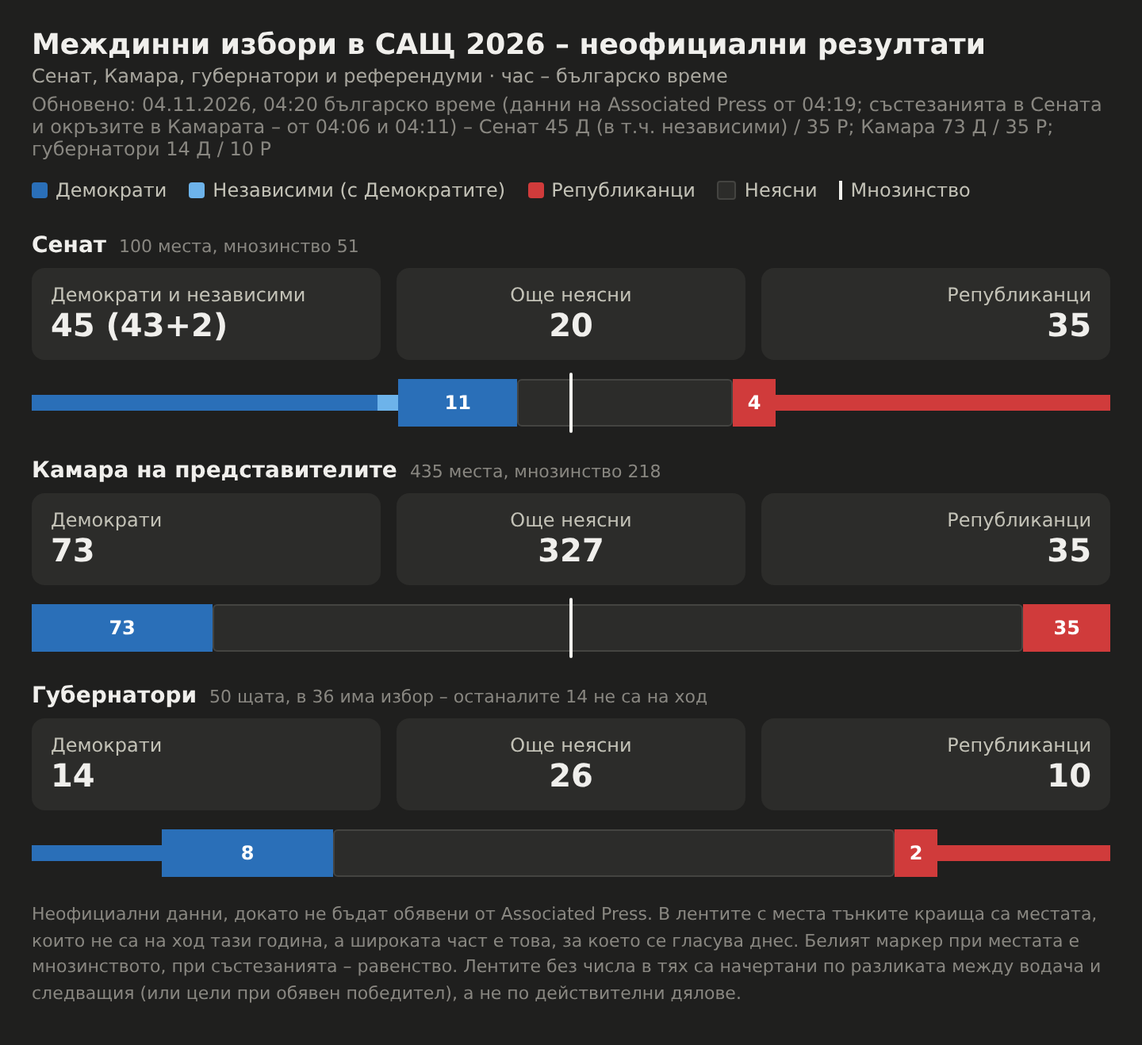
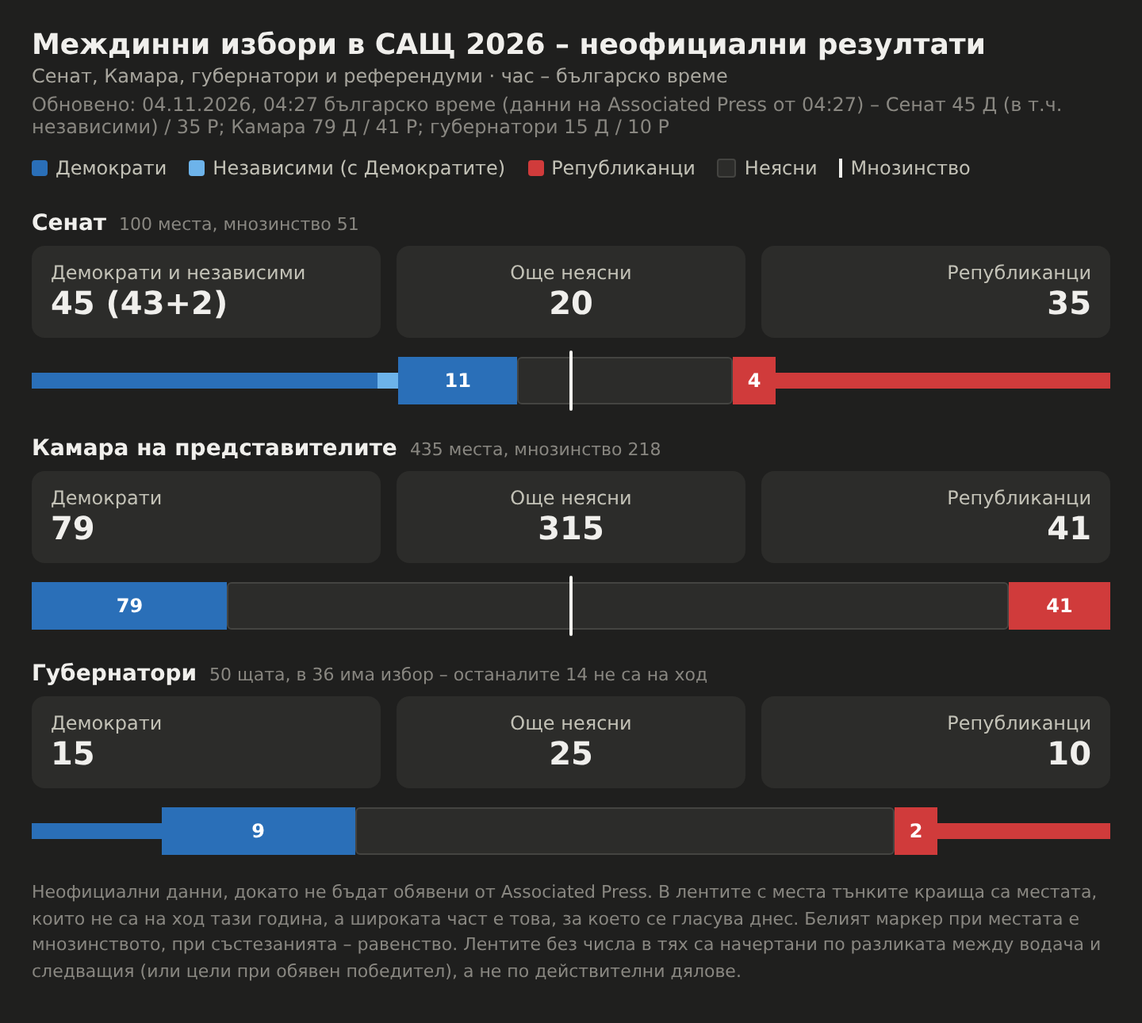
Обновяване 04:27 българско време: Камара 79–41, губернатори 15–10
Claude-Session: https://claude.ai/code/session_013Bd4dyDeBGD9vdxVJ9tN9V

diff --git a/us-midterms-2026.11.03.html b/us-midterms-2026.11.03.html
@@ -53,13 +53,13 @@ h1{font-size:18px;font-weight:600;margin:0 0 2px}
 .empty{font-size:13px;color:var(--text-muted);padding:10px 0}
 .foot{font-size:11px;color:var(--text-muted);margin-top:16px;line-height:1.5}
 </style></head><body><div class="wrap">
-<h1>Междинни избори в САЩ 2026 – неофициални резултати</h1><div class="sub">Сенат, Камара, губернатори и референдуми · час – българско време</div><div class="upd">Обновено: 04.11.2026, 04:20 българско време (данни на Associated Press от 04:19; състезанията в Сената и окръзите в Камарата – от 04:06 и 04:11) – Сенат 45 Д (в т.ч. независими) / 35 Р; Камара 73 Д / 35 Р; губернатори 14 Д / 10 Р</div>
+<h1>Междинни избори в САЩ 2026 – неофициални резултати</h1><div class="sub">Сенат, Камара, губернатори и референдуми · час – българско време</div><div class="upd">Обновено: 04.11.2026, 04:27 българско време (данни на Associated Press от 04:27) – Сенат 45 Д (в т.ч. независими) / 35 Р; Камара 79 Д / 41 Р; губернатори 15 Д / 10 Р</div>
 <div class="tabs" id="tabs"></div>
 <div id="view"></div>
 <div class="foot">Неофициални данни, докато не бъдат обявени от Associated Press. В лентите с места тънките краища са местата, които не са на ход тази година, а широката част е това, за което се гласува днес. Белият маркер при местата е мнозинството, при състезанията – равенство. Лентите без числа в тях са начертани по разликата между водача и следващия (или цели при обявен победител), а не по действителни дялове. Щракни на ред, за да видиш как се е променял или кои са окръзите на щата.</div>
 </div>
 <script>
-var DATA={"title": "Междинни избори в САЩ 2026 – неофициални резултати", "sub": "Сенат, Камара, губернатори и референдуми · час – българско време", "updated": "04.11.2026, 04:20 българско време (данни на Associated Press от 04:19; състезанията в Сената и окръзите в Камарата – от 04:06 и 04:11) – Сенат 45 Д (в т.ч. независими) / 35 Р; Камара 73 Д / 35 Р; губернатори 14 Д / 10 Р", "times": ["01:30", "02:00", "02:15", "02:30", "03:30", "03:45", "04:05", "04:15", "04:20"], "chambers": {"sen": {"tot": 100, "mj": 51, "d": [32, 32, 33, 33, 41, 41, 43, 43, 43], "i": [2, 2, 2, 2, 2, 2, 2, 2, 2], "r": [31, 31, 31, 31, 31, 32, 34, 34, 35], "base": {"d": 32, "i": 2, "r": 31}}, "hou": {"tot": 435, "mj": 218, "d": [0, 0, 3, 6, 36, 44, 60, 71, 73], "i": [0, 0, 0, 0, 0, 0, 0, 0, 0], "r": [0, 0, 1, 2, 16, 21, 29, 31, 35], "base": {"d": 0, "i": 0, "r": 0}}, "gov": {"tot": 50, "d": [6, 6, 6, 6, 11, 11, 13, 13, 14], "i": [], "r": [8, 8, 8, 8, 8, 8, 9, 10, 10], "base": {"d": 6, "i": 0, "r": 8}}}, "senate": [["Върджиния", 100, 0, null, "<b>Обявен:</b> Демократи (Уорнър)", 1, [], 1], ["Северна Каролина", 100, 0, null, "<b>Обявен:</b> Демократи (Купър; място, което сега е на Републиканците)", 1, [], 1], ["Ню Хемпшър", 100, 0, null, "<b>Обявен:</b> Демократи (Папас)", 1, [], 1], ["Флорида", 0, 100, null, "<b>Обявена:</b> Републиканци (Муди, специален избор)", 1, [], 1], ["Кентъки", 0, 100, null, "<b>Обявен:</b> Републиканци (Бар)", 1, [], 1], ["Колорадо", 100, 0, null, "<b>Обявен:</b> Демократи (Хикенлупър)", 1, [], 1], ["Ню Мексико", 100, 0, null, "<b>Обявен:</b> Демократи (Лухан)", 1, [], 1], ["Уайоминг", 0, 100, null, "<b>Обявена:</b> Републиканци (Хагеман)", 1, [], 1], ["Грузия", null, null, 71, "Води: Демократи (Ософ) – Associated Press не дава разлика", 0, []], ["Южна Каролина", 54.1, 45.9, 71, "Води: Демократи (+8,2 пункта)", 0, [], 1], ["Охайо", 54.35, 45.65, 47, "Води: Демократи (Браун, +8,7 пункта)", 0, [], 1], ["Тексас", 59.95, 40.05, 40, "Води: Демократи (Таларико, +19,9 пункта)", 0, [], 1], ["Канзас", 63.25, 36.75, 38, "Води: Демократи (+26,5 пункта)", 0, [], 1], ["Мичиган", 55.75, 44.25, 14, "Води: Демократи (+11,5 пункта)", 0, [], 1], ["Мейн", 55.5, 44.5, 4, "Води: Демократи (Джаксън, +11) – броят е в началото", 0, [], 1], ["Айова", 73.05, 26.95, 5, "Води: Демократи (Турек, +46,1) – броят е в началото", 0, [], 1]], "gov": [["Роуд Айлънд", 100, 0, null, "<b>Обявена:</b> Демократи (Фулкс)", 1, [], 1], ["Колорадо", 100, 0, null, "<b>Обявен:</b> Демократи (Уайзър)", 1, [], 1], ["Ню Йорк", 100, 0, null, "<b>Обявена:</b> Демократи (Хокъл)", 1, [], 1], ["Уайоминг", 0, 100, null, "<b>Обявен:</b> Републиканци (Барлоу)", 1, [], 1], ["Флорида", 0, 100, null, "<b>Обявен:</b> Републиканци (Доналдс)", 1, [], 1], ["Кънектикът", 100, 0, null, "<b>Обявен:</b> Демократи (Ламонт)", 1, [], 1]], "housecontested": [["Вирджиния 1", 49.5, 50.2, 80, "Води: Републиканци", 0, []], ["Флорида 7", 49.1, 49.8, 98, "Води: Републиканци", 0, []], ["Флорида 9", 50.2, 49.8, 99, "Води: Демократи", 0, []], ["Флорида 13", 48.6, 49.5, 99, "Води: Републиканци", 0, []], ["Флорида 27", 49.8, 50.2, 95, "Води: Републиканци", 0, []], ["Вирджиния 5", 49.5, 48.8, 71, "Води: Демократи", 0, []], ["Северна Каролина 9", 51, 49, 89, "Води: Демократи", 0, []], ["Индиана 5", 52, 48, 88, "Води: Демократи", 0, []], ["Флорида 22", 52, 48, 99, "Води: Демократи", 0, []], ["Кентъки 6", 53, 43, 74, "Води: Демократи", 0, []], ["Мичиган 10", 51, 47, 11, "Води: Демократи", 0, []], ["Айова 2", 47.8, 48.7, 1, "Води: Републиканци", 0, []], ["Охайо 7", 59, 41, 43, "Води: Демократи", 0, []], ["Пенсилвания 1", 66, 34, 28, "Води: Демократи", 0, []], ["Тексас 35", 66, 34, 44, "Води: Демократи", 0, []], ["Ню Йорк 17", 57, 43, 2, "Води: Демократи", 0, []], ["Алабама 2", 38, 62, 8, "Води: Републиканци", 0, []], ["Мичиган 4", 27, 71, 1, "Води: Републиканци", 0, []]], "housestates": [], "measures": [["Мисури – Поправка 3 (аборти)", 35.7, 64.3, 20.9, "Води: Против", 0, [], 0, "Предложена поправка в конституцията на Мисури. Тя отменя правото на аборт до жизнеспособността на плода и позволява аборт само при медицинска спешност, аномалия на плода, или при изнасилване или кръвосмешение до 12-ата седмица от бременността. Забранява и лечения и операции за смяна на пола при непълнолетни."], ["Върджиния – Въпрос 1 (репродуктивни права)", 60.5, 39.5, 69.8, "Води: За", 0, [], 0, "Предложена поправка в конституцията на Върджиния. Тя създава репродуктивни права, включително право на аборт, на контрацепция и на грижи за плодовитостта. Абортът може да се регулира през третия триместър, но трябва да бъде разрешен, за да се защити животът или здравето на бременната жена или когато плодът не е жизнеспособен."], ["Върджиния – Въпрос 2 (брак)", 56.2, 43.8, 69.8, "Води: За", 0, [], 0, "Предложена поправка в конституцията на Върджиния. Тя отменя ограничението бракът да е само между мъж и жена и вместо това заявява, че на двама възрастни не може да се отказва брак заради пол, полова идентичност или раса."], ["Върджиния – Въпрос 3 (право на глас)", 54.7, 45.3, 69.6, "Води: За", 0, [], 0, "Предложена поправка в конституцията на Върджиния. Тя създава основно право да се гласува и възстановява отнетите избирателни права на осъдени за тежки престъпления, след като бъдат освободени от затвора."], ["Мисури – Предложение A (нови окръзи за Камарата)", 31.5, 68.5, 20.4, "Води: Против", 0, [], 0, "Референдум, в който гласоподавателите в Мисури решават дали да се приемат новите окръзи за Камарата на представителите на САЩ, приети от законодателите на щата през 2025 г."], ["Мериленд – Въпрос 3 (окръзи за Конгреса)", 34.8, 65.2, 3, "Води: Против", 0, [], 0, "Предложена поправка в конституцията на Мериленд. Тя премахва ограниченията при прекрояването на окръзите за Конгреса. Изискването окръзите да са компактни и да уважават „природните граници“ ще важи само за окръзите на законодателния орган на щата, а не за окръзите за Конгреса."], ["Охайо – Въпрос 3 (документ със снимка)", 63.6, 36.4, 52.7, "Води: За", 0, [], 0, "Предложена поправка в конституцията на Охайо. Тя изисква държавен документ със снимка, за да се гласува лично, с изключение за религиозни убеждения. Който гласува по друг начин, трябва да представи или документ със снимка, или номер на държавен документ за самоличност."], ["Северна Каролина – Поправка SB 921 (документ със снимка)", 57.2, 42.8, 78, "Води: За", 0, [], 0, "Предложена поправка в конституцията на Северна Каролина. Тя изисква документ със снимка, за да се гласува по какъвто и да е начин, а не само когато се гласува лично."], ["Канзас – Поправка 1 (неграждани)", 55.1, 44.9, 39.2, "Води: За", 0, [], 0, "Предложена поправка в конституцията на Канзас. Тя забранява на неграждани да гласуват на избори."], ["Масачузетс – Въпрос 3 (отворени първични избори)", 37.1, 62.9, 4.5, "Води: Против", 0, [], 0, "Мярката премахва отделните първични избори на партиите и въвежда отворени първични избори, в които двамата с най-много гласове преминават към общите избори. Изисква и кандидатите за губернатор да бъдат в двойка с кандидат за заместник-губернатор в първичните избори."], ["Масачузетс – Въпрос 8 (марихуана)", 20.4, 79.6, 4.5, "Води: Против", 0, [], 0, "Мярката отменя законите, които позволяват законна продажба на марихуана за развлекателни цели, но не налага наказателни санкции за притежание на по-малко от две унции. Медицинската марихуана остава законна."], ["Колорадо – Поправка 81 (имиграция)", 26.4, 73.6, 9.1, "Води: Против", 0, [], 0, "Предложена поправка в конституцията на Колорадо. Тя изисква служителите на реда да уведомяват Министерството на вътрешната сигурност на САЩ, когато обвиняват хора в тежки престъпления или, при хора с предишни присъди за тежки престъпления, в което и да е престъпление, ако може да са в САЩ незаконно."], ["Колорадо – Предложение 135 (непълнолетни и смяна на пола)", 31.8, 68.2, 9, "Води: Против", 0, [], 0, "Мярката забранява операции за промяна на половите белези на непълнолетни в отговор на възприеманата полова идентичност или пол на детето. Забранява и държавно финансиране за такива операции."], ["Тенеси – Поправка 2 (данъци върху имоти)", 64.6, 35.4, 27.1, "Води: За", 0, [], 0, "Предложена поправка в конституцията на Тенеси. Тя забранява на щата да налага данъци върху имоти."], ["Северна Дакота – Мярка 2 (безплатни училищни обяди)", 44.6, 55.4, 11.3, "Води: Против", 0, [], 0, "Предложена поправка в конституцията на Северна Дакота. Тя изисква държавните училища да осигуряват безплатна закуска и обяд на всички ученици."]], "foot": "Неофициални данни, докато не бъдат обявени от Associated Press. В лентите с места тънките краища са местата, които не са на ход тази година, а широката част е това, за което се гласува днес. Белият маркер при местата е мнозинството, при състезанията – равенство. Лентите без числа в тях са начертани по разликата между водача и следващия (или цели при обявен победител), а не по действителни дялове. Щракни на ред, за да видиш как се е променял или кои са окръзите на щата."};
+var DATA={"title": "Междинни избори в САЩ 2026 – неофициални резултати", "sub": "Сенат, Камара, губернатори и референдуми · час – българско време", "updated": "04.11.2026, 04:27 българско време (данни на Associated Press от 04:27) – Сенат 45 Д (в т.ч. независими) / 35 Р; Камара 79 Д / 41 Р; губернатори 15 Д / 10 Р", "times": ["01:30", "02:00", "02:15", "02:30", "03:30", "03:45", "04:05", "04:15", "04:20", "04:27"], "chambers": {"sen": {"tot": 100, "mj": 51, "d": [32, 32, 33, 33, 41, 41, 43, 43, 43, 43], "i": [2, 2, 2, 2, 2, 2, 2, 2, 2, 2], "r": [31, 31, 31, 31, 31, 32, 34, 34, 35, 35], "base": {"d": 32, "i": 2, "r": 31}}, "hou": {"tot": 435, "mj": 218, "d": [0, 0, 3, 6, 36, 44, 60, 71, 73, 79], "i": [0, 0, 0, 0, 0, 0, 0, 0, 0, 0], "r": [0, 0, 1, 2, 16, 21, 29, 31, 35, 41], "base": {"d": 0, "i": 0, "r": 0}}, "gov": {"tot": 50, "d": [6, 6, 6, 6, 11, 11, 13, 13, 14, 15], "i": [], "r": [8, 8, 8, 8, 8, 8, 9, 10, 10, 10], "base": {"d": 6, "i": 0, "r": 8}}}, "senate": [["Върджиния", 100, 0, null, "<b>Обявен:</b> Демократи (Уорнър)", 1, [], 1], ["Северна Каролина", 100, 0, null, "<b>Обявен:</b> Демократи (Купър; място, което сега е на Републиканците)", 1, [], 1], ["Ню Хемпшър", 100, 0, null, "<b>Обявен:</b> Демократи (Папас)", 1, [], 1], ["Флорида", 0, 100, null, "<b>Обявена:</b> Републиканци (Муди, специален избор)", 1, [], 1], ["Кентъки", 0, 100, null, "<b>Обявен:</b> Републиканци (Бар)", 1, [], 1], ["Колорадо", 100, 0, null, "<b>Обявен:</b> Демократи (Хикенлупър)", 1, [], 1], ["Ню Мексико", 100, 0, null, "<b>Обявен:</b> Демократи (Лухан)", 1, [], 1], ["Уайоминг", 0, 100, null, "<b>Обявена:</b> Републиканци (Хагеман)", 1, [], 1], ["Грузия", null, null, 75, "Води: Демократи (Ософ) – Associated Press не дава разлика", 0, []], ["Южна Каролина", 52.5, 47.5, 80, "Води: Демократи (+5 пункта)", 0, [], 1], ["Охайо", 52.05, 47.95, 56, "Води: Демократи (Браун, +4,1 пункта)", 0, [], 1], ["Тексас", 60.45, 39.55, 52, "Води: Демократи (Таларико, +20,9 пункта)", 0, [], 1], ["Канзас", 61.25, 38.75, 42, "Води: Демократи (+22,5 пункта)", 0, [], 1], ["Мичиган", 55.4, 44.6, 16, "Води: Демократи (Ел-Саид, +10,8 пункта)", 0, [], 1], ["Мейн", 52.45, 47.55, 8, "Води: Демократи (Джаксън, +4,9) – броят е в началото", 0, [], 1], ["Айова", 63.3, 36.7, 16, "Води: Демократи (Турек, +26,6 пункта)", 0, [], 1]], "gov": [["Роуд Айлънд", 100, 0, null, "<b>Обявена:</b> Демократи (Фулкс)", 1, [], 1], ["Колорадо", 100, 0, null, "<b>Обявен:</b> Демократи (Уайзър)", 1, [], 1], ["Ню Йорк", 100, 0, null, "<b>Обявена:</b> Демократи (Хокъл)", 1, [], 1], ["Уайоминг", 0, 100, null, "<b>Обявен:</b> Републиканци (Барлоу)", 1, [], 1], ["Флорида", 0, 100, null, "<b>Обявен:</b> Републиканци (Доналдс)", 1, [], 1], ["Кънектикът", 100, 0, null, "<b>Обявен:</b> Демократи (Ламонт)", 1, [], 1], ["Грузия", 100, 0, null, "<b>Обявена:</b> Демократи (Бътъмс)", 1, [], 1]], "housecontested": [["Вирджиния 1", 49.5, 50.2, 80, "Води: Републиканци", 0, []], ["Флорида 7", 49.1, 49.8, 98, "Води: Републиканци", 0, []], ["Флорида 9", 50.2, 49.8, 99, "Води: Демократи", 0, []], ["Флорида 13", 48.6, 49.5, 99, "Води: Републиканци", 0, []], ["Флорида 27", 49.8, 50.2, 95, "Води: Републиканци", 0, []], ["Вирджиния 5", 49.5, 48.8, 71, "Води: Демократи", 0, []], ["Северна Каролина 9", 51, 49, 89, "Води: Демократи", 0, []], ["Индиана 5", 52, 48, 88, "Води: Демократи", 0, []], ["Флорида 22", 52, 48, 99, "Води: Демократи", 0, []], ["Кентъки 6", 53, 43, 74, "Води: Демократи", 0, []], ["Мичиган 10", 51, 47, 11, "Води: Демократи", 0, []], ["Айова 2", 47.8, 48.7, 1, "Води: Републиканци", 0, []], ["Охайо 7", 59, 41, 43, "Води: Демократи", 0, []], ["Пенсилвания 1", 66, 34, 28, "Води: Демократи", 0, []], ["Тексас 35", 66, 34, 44, "Води: Демократи", 0, []], ["Ню Йорк 17", 57, 43, 2, "Води: Демократи", 0, []], ["Алабама 2", 38, 62, 8, "Води: Републиканци", 0, []], ["Мичиган 4", 27, 71, 1, "Води: Републиканци", 0, []]], "housestates": [], "measures": [["Мисури – Поправка 3 (аборти)", 35.7, 64.3, 20.9, "Води: Против", 0, [], 0, "Предложена поправка в конституцията на Мисури. Тя отменя правото на аборт до жизнеспособността на плода и позволява аборт само при медицинска спешност, аномалия на плода, или при изнасилване или кръвосмешение до 12-ата седмица от бременността. Забранява и лечения и операции за смяна на пола при непълнолетни."], ["Върджиния – Въпрос 1 (репродуктивни права)", 60.5, 39.5, 69.8, "Води: За", 0, [], 0, "Предложена поправка в конституцията на Върджиния. Тя създава репродуктивни права, включително право на аборт, на контрацепция и на грижи за плодовитостта. Абортът може да се регулира през третия триместър, но трябва да бъде разрешен, за да се защити животът или здравето на бременната жена или когато плодът не е жизнеспособен."], ["Върджиния – Въпрос 2 (брак)", 56.2, 43.8, 69.8, "Води: За", 0, [], 0, "Предложена поправка в конституцията на Върджиния. Тя отменя ограничението бракът да е само между мъж и жена и вместо това заявява, че на двама възрастни не може да се отказва брак заради пол, полова идентичност или раса."], ["Върджиния – Въпрос 3 (право на глас)", 54.7, 45.3, 69.6, "Води: За", 0, [], 0, "Предложена поправка в конституцията на Върджиния. Тя създава основно право да се гласува и възстановява отнетите избирателни права на осъдени за тежки престъпления, след като бъдат освободени от затвора."], ["Мисури – Предложение A (нови окръзи за Камарата)", 31.5, 68.5, 20.4, "Води: Против", 0, [], 0, "Референдум, в който гласоподавателите в Мисури решават дали да се приемат новите окръзи за Камарата на представителите на САЩ, приети от законодателите на щата през 2025 г."], ["Мериленд – Въпрос 3 (окръзи за Конгреса)", 34.8, 65.2, 3, "Води: Против", 0, [], 0, "Предложена поправка в конституцията на Мериленд. Тя премахва ограниченията при прекрояването на окръзите за Конгреса. Изискването окръзите да са компактни и да уважават „природните граници“ ще важи само за окръзите на законодателния орган на щата, а не за окръзите за Конгреса."], ["Охайо – Въпрос 3 (документ със снимка)", 63.6, 36.4, 52.7, "Води: За", 0, [], 0, "Предложена поправка в конституцията на Охайо. Тя изисква държавен документ със снимка, за да се гласува лично, с изключение за религиозни убеждения. Който гласува по друг начин, трябва да представи или документ със снимка, или номер на държавен документ за самоличност."], ["Северна Каролина – Поправка SB 921 (документ със снимка)", 57.2, 42.8, 78, "Води: За", 0, [], 0, "Предложена поправка в конституцията на Северна Каролина. Тя изисква документ със снимка, за да се гласува по какъвто и да е начин, а не само когато се гласува лично."], ["Канзас – Поправка 1 (неграждани)", 55.1, 44.9, 39.2, "Води: За", 0, [], 0, "Предложена поправка в конституцията на Канзас. Тя забранява на неграждани да гласуват на избори."], ["Масачузетс – Въпрос 3 (отворени първични избори)", 37.1, 62.9, 4.5, "Води: Против", 0, [], 0, "Мярката премахва отделните първични избори на партиите и въвежда отворени първични избори, в които двамата с най-много гласове преминават към общите избори. Изисква и кандидатите за губернатор да бъдат в двойка с кандидат за заместник-губернатор в първичните избори."], ["Масачузетс – Въпрос 8 (марихуана)", 20.4, 79.6, 4.5, "Води: Против", 0, [], 0, "Мярката отменя законите, които позволяват законна продажба на марихуана за развлекателни цели, но не налага наказателни санкции за притежание на по-малко от две унции. Медицинската марихуана остава законна."], ["Колорадо – Поправка 81 (имиграция)", 26.4, 73.6, 9.1, "Води: Против", 0, [], 0, "Предложена поправка в конституцията на Колорадо. Тя изисква служителите на реда да уведомяват Министерството на вътрешната сигурност на САЩ, когато обвиняват хора в тежки престъпления или, при хора с предишни присъди за тежки престъпления, в което и да е престъпление, ако може да са в САЩ незаконно."], ["Колорадо – Предложение 135 (непълнолетни и смяна на пола)", 31.8, 68.2, 9, "Води: Против", 0, [], 0, "Мярката забранява операции за промяна на половите белези на непълнолетни в отговор на възприеманата полова идентичност или пол на детето. Забранява и държавно финансиране за такива операции."], ["Тенеси – Поправка 2 (данъци върху имоти)", 64.6, 35.4, 27.1, "Води: За", 0, [], 0, "Предложена поправка в конституцията на Тенеси. Тя забранява на щата да налага данъци върху имоти."], ["Северна Дакота – Мярка 2 (безплатни училищни обяди)", 44.6, 55.4, 11.3, "Води: Против", 0, [], 0, "Предложена поправка в конституцията на Северна Дакота. Тя изисква държавните училища да осигуряват безплатна закуска и обяд на всички ученици."]], "foot": "Неофициални данни, докато не бъдат обявени от Associated Press. В лентите с места тънките краища са местата, които не са на ход тази година, а широката част е това, за което се гласува днес. Белият маркер при местата е мнозинството, при състезанията – равенство. Лентите без числа в тях са начертани по разликата между водача и следващия (или цели при обявен победител), а не по действителни дялове. Щракни на ред, за да видиш как се е променял или кои са окръзите на щата."};
 var D='#2a6fb8',I='#6db3ea',R='#d03b3b',Y='#1baf7a',N='#eb6834';
 var f=function(v){return String(Math.round(v*10)/10).replace('.',',')+'%'};
 var leg=function(a,lm){return '<div class="leg">'+a.map(function(x){return '<span><i class="sw" style="background:'+x[0]+(x[2]?';border:1px solid var(--border)':'')+'"></i>'+x[1]+'</span>'}).join('')+'<span><i class="mk"></i>'+lm+'</span></div>'};
